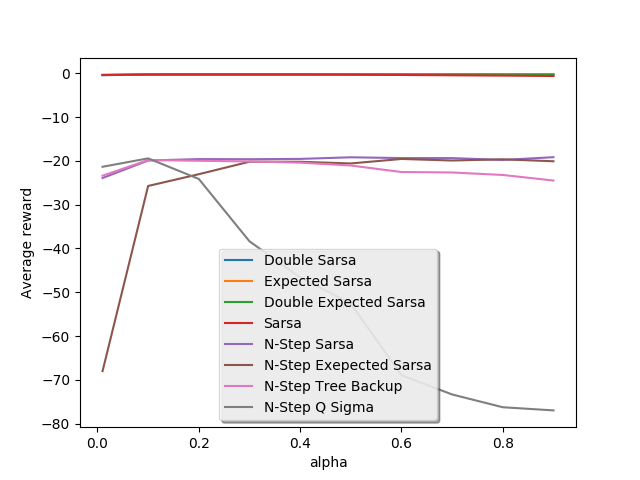
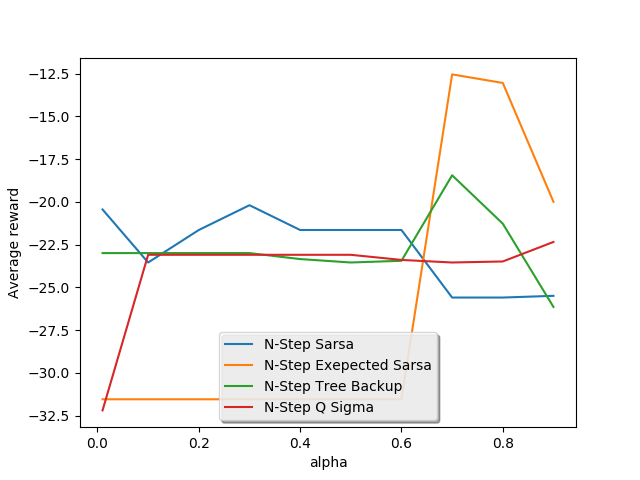
images no on-policy

diff --git a/varying_alpha_with_custom_sigma.py b/varying_alpha_with_custom_sigma.py
@@ -1,0 +1,179 @@
+import numpy as np
+from mdp_matrix import GridWorld, StochasticGridWorld, WindyGridCliffMazeWorld
+from double_sarsa import double_sarsa
+from n_step_sarsa import n_step_sarsa
+from n_step_expected_sarsa import n_step_expected_sarsa
+from n_step_tree_backup import n_step_tree_backup
+from q_sigma_with_varianced_sigma import n_step_q_sigma
+from expected_sarsa import expected_sarsa
+from double_expected_sarsa import double_expected_sarsa
+import matplotlib
+matplotlib.use('Agg')
+import matplotlib.pyplot as plt
+from sarsa import sarsa
+from joblib import Parallel, delayed
+
+start_state = [0, 0]
+
+test_rewards = [[i, j, -1] for i in range(5) for j in range(5)]
+test_rewards[2] = [0, 2, 1]
+test_rewards[23] = [4,3, 1]
+
+gamma=.9
+
+start_state = [0, 0]
+
+gw = StochasticGridWorld(5, test_rewards, terminal_states=[2, 23] )
+# print test_rewards
+
+average_reward_double_sarsa = []
+all_rewards_per_episode_double_sarsa = []
+q_var_double_sarsa = []
+
+average_reward_expected_sarsa = []
+all_rewards_per_episode_expected_sarsa = []
+q_var_expected_sarsa = []
+
+average_reward_double_expected_sarsa = []
+all_rewards_per_episode_double_expected_sarsa = []
+q_var_double_expected_sarsa = []
+
+average_reward_sarsa = []
+all_rewards_per_episode_sarsa = []
+q_var_sarsa = []
+
+
+average_reward_n_step_sarsa = []
+all_rewards_per_episode_n_step_sarsa = []
+q_var_n_step_sarsa = []
+
+
+average_reward_n_step_expected_sarsa = []
+all_rewards_per_episode_n_step_expected_sarsa = []
+q_var_n_step_expected_sarsa = []
+
+
+average_reward_n_step_tree_backup= []
+all_rewards_per_episode_n_step_tree_backup = []
+q_var_n_step_tree_backup = []
+
+average_reward_n_step_q_sigma= []
+all_rewards_per_episode_n_step_q_sigma = []
+q_var_n_step_q_sigma = []
+
+
+epsilon = .1
+
+n=2000
+alphas = [x for x in np.arange(0.0, 1., .1)]
+alphas[0] = .01
+# import pdb; pdb.set_trace()
+
+number_of_runs = 5
+
+for r in range(number_of_runs):
+    n_step_sarsa_results = Parallel(n_jobs=-2, verbose=10)(delayed(n_step_sarsa)(gw, n, alpha, gamma, epsilon, n=4) for alpha in alphas)
+    # Q, average_reward, max_reward, all_rewards, Q_variances = n_step_sarsa(gw, max_episode, epsilon=epsilon, alpha=alpha, n = n_step)
+    for result in n_step_sarsa_results:
+        average_reward_n_step_sarsa.append(result[1])
+        q_var_n_step_sarsa.append(result[4])
+        all_rewards_per_episode_n_step_sarsa.append(result[3])
+    print("Done nstep sarsa")
+
+    n_step_expected_sarsa_results = Parallel(n_jobs=-2, verbose=10)(delayed(n_step_expected_sarsa)(gw, n, alpha, gamma, epsilon, n=4) for alpha in alphas)
+    # Q, average_reward, max_reward, all_rewards, Q_variances = n_step_sarsa(gw, max_episode, epsilon=epsilon, alpha=alpha, n = n_step)
+    for result in n_step_expected_sarsa_results:
+        average_reward_n_step_expected_sarsa.append(result[1])
+        q_var_n_step_expected_sarsa.append(result[4])
+        all_rewards_per_episode_n_step_expected_sarsa.append(result[3])
+    print("Done nstep expected sarsa")
+
+    n_step_tree_backup_results = Parallel(n_jobs=-2, verbose=10)(delayed(n_step_tree_backup)(gw, n, alpha, gamma, epsilon, n=4) for alpha in alphas)
+    # Q, average_reward, max_reward, all_rewards, Q_variances = n_step_tree_backup(gw, max_episode, epsilon=epsilon, alpha=alpha, n = n_step)
+    for result in n_step_tree_backup_results:
+        average_reward_n_step_tree_backup.append(result[1])
+        q_var_n_step_tree_backup.append(result[4])
+        all_rewards_per_episode_n_step_tree_backup.append(result[3])
+    print("Done nstep tree backup")
+
+    n_step_q_sigma_results = Parallel(n_jobs=-2, verbose=10)(delayed(n_step_q_sigma)(gw, n, alpha, gamma, epsilon, n=4) for alpha in alphas)
+    # Q, average_reward, max_reward, all_rewards, Q_variances = n_step_q_sigma(gw, max_episode, epsilon=epsilon, alpha=alpha, n = n_step)
+    for result in n_step_q_sigma_results:
+        average_reward_n_step_q_sigma.append(result[1])
+        q_var_n_step_q_sigma.append(result[4])
+        all_rewards_per_episode_n_step_q_sigma.append(result[3])
+    print("Done nstep q_sigma")
+
+
+q_var_n_step_sarsa = np.mean(np.mean(np.split(np.array(q_var_n_step_sarsa), number_of_runs), axis = 0), axis=1)
+q_var_n_step_expected_sarsa = np.mean(np.mean(np.split(np.array(q_var_n_step_expected_sarsa), number_of_runs), axis = 0), axis=1)
+q_var_n_step_tree_backup= np.mean(np.mean(np.split(np.array(q_var_n_step_tree_backup), number_of_runs), axis = 0), axis=1)
+q_var_n_step_q_sigma= np.mean(np.mean(np.split(np.array(q_var_n_step_q_sigma), number_of_runs), axis = 0), axis=1)
+
+
+plt.plot(alphas, q_var_n_step_sarsa, label="N-Step Sarsa")
+plt.plot(alphas, q_var_n_step_expected_sarsa, label="N-Step Expected Sarsa")
+plt.plot(alphas, q_var_n_step_tree_backup, label="N-Step Tree Backup")
+plt.plot(alphas, q_var_n_step_q_sigma, label="N-Step Q sigma")
+
+plt.ylabel('Average Q Variance')
+plt.xlabel('alpha')
+ax = plt.gca()
+# ax.set_xscale('symlog')
+ax.legend(loc='upper center', shadow=True)
+plt.savefig('q_variance.png')
+plt.close()
+
+# TODO: plot all sarsa, expected_sarsa, double_Sarsa
+# import pdb; pdb.set_trace()
+average_reward_n_step_sarsa = np.mean(np.split(np.array(average_reward_n_step_sarsa), number_of_runs), axis=0)
+average_reward_n_step_expected_sarsa = np.mean(np.split(np.array(average_reward_n_step_expected_sarsa), number_of_runs), axis=0)
+average_reward_n_step_tree_backup = np.mean(np.split(np.array(average_reward_n_step_tree_backup), number_of_runs), axis=0)
+average_reward_n_step_q_sigma = np.mean(np.split(np.array(average_reward_n_step_q_sigma), number_of_runs), axis=0)
+
+plt.plot(alphas, average_reward_n_step_sarsa, label="N-Step Sarsa")
+plt.plot(alphas, average_reward_n_step_expected_sarsa, label="N-Step Exepected Sarsa")
+plt.plot(alphas, average_reward_n_step_tree_backup, label="N-Step Tree Backup")
+plt.plot(alphas, average_reward_n_step_q_sigma, label="N-Step Q Sigma")
+
+plt.ylabel('Average reward')
+plt.xlabel('alpha')
+ax = plt.gca()
+# ax.set_xscale('symlog')
+ax.legend(loc='lower center', shadow=True)
+plt.savefig('average_reward.png')
+plt.close()
+# import pdb; pdb.set_trace()
+
+
+print("Max alpha N-step SARSA: %f" % alphas[np.argmax(average_reward_n_step_sarsa)])
+print("Max alpha N-step Expected SARSA: %f" % alphas[np.argmax(average_reward_n_step_expected_sarsa)])
+print("Max alpha N-step TreeBackup: %f" % alphas[np.argmax(average_reward_n_step_tree_backup)])
+print("Max alpha N-step Q Sigma: %f" % alphas[np.argmax(average_reward_n_step_q_sigma)])
+
+
+all_rewards_per_episode_n_step_sarsa = np.mean(np.split(np.array(all_rewards_per_episode_n_step_sarsa), number_of_runs), axis=0)
+all_rewards_per_episode_n_step_expected_sarsa = np.mean(np.split(np.array(all_rewards_per_episode_n_step_expected_sarsa), number_of_runs), axis=0)
+all_rewards_per_episode_n_step_tree_backup = np.mean(np.split(np.array(all_rewards_per_episode_n_step_tree_backup), number_of_runs), axis=0)
+all_rewards_per_episode_n_step_q_sigma= np.mean(np.split(np.array(all_rewards_per_episode_n_step_q_sigma), number_of_runs), axis=0)
+
+
+variance_n_step_sarsa = np.var(all_rewards_per_episode_n_step_sarsa, axis=1)
+variance_n_step_expected_sarsa = np.var(all_rewards_per_episode_n_step_expected_sarsa, axis=1)
+variance_n_step_tree_backup = np.var(all_rewards_per_episode_n_step_tree_backup, axis=1)
+variance_n_step_q_sigma = np.var(all_rewards_per_episode_n_step_q_sigma, axis=1)
+
+# import pdb; pdb.set_trace()/
+
+plt.plot(alphas, variance_n_step_sarsa, label="N-Step Sarsa")
+plt.plot(alphas, variance_n_step_expected_sarsa, label="N-Step Expected Sarsa")
+plt.plot(alphas, variance_n_step_tree_backup, label="N-Step Tree Backup")
+plt.plot(alphas, variance_n_step_q_sigma, label="N-Step Q sigma")
+
+plt.ylabel('Variance in Reward')
+plt.xlabel('alpha')
+ax = plt.gca()
+# ax.set_xscale('symlog')
+ax.legend(loc='upper center', shadow=True)
+plt.savefig('variance_reward.png')
+plt.close()

diff --git a/q_sigma_with_varianced_sigma.py b/q_sigma_with_varianced_sigma.py
@@ -1,5 +1,7 @@
 import numpy as np
 import sys
+import sklearn
+from sklearn.preprocessing import normalize
 
 def behaviour_policy(Q, s, nA, epsilon=.3):
     """
@@ -32,13 +34,27 @@ def target_policy_probs(Q, s, nA, epsilon=.1):
     A[best_action] += (1.0 - epsilon)
     return A
 
-def select_sigma(Q, s, a, nA):
+def select_sigma(Q, s, a, nA, last_n_variances):
     """
     The idea is that you should be able to choose a sigma based off of a function of
     variables, but here we simply choose a uniform distribution for now.
     Idea is to swap this out for other functions in experiments
     """
-    return np.random.randint(2, size=nA)[a]
+    # Take the max norm of the last N variances
+    # import pdb; pdb.set_trace()
+    last_n_variances = normalize(last_n_variances.reshape(-1, 1), 'max').reshape(-1)
+    # print(np.mean(last_n_variances))
+    # print( np.mean(last_n_variances[-1]) )
+    if np.mean(last_n_variances) == 0:
+        # no data defaults to uniform distribution
+        return np.random.randint(2, size=nA)[a]
+
+    if last_n_variances[-1] > np.mean(last_n_variances):
+        #if the variance is increasing, don't favour sampling
+        # print "test"
+        return 0
+    else:
+        return 1
 
 
 def n_step_q_sigma(mdp, max_episode, alpha = 0.1, gamma = 0.9, epsilon = 0.1, n = 10):
@@ -49,7 +65,7 @@ def n_step_q_sigma(mdp, max_episode, alpha = 0.1, gamma = 0.9, epsilon = 0.1, n 
     Q_variances = []
     max_reward = 0
     total_reward = 0
-
+    last_n_variances = np.zeros(n)
     # TODO: make sigma able to be configured
 
     while n_episode < max_episode:
@@ -58,7 +74,6 @@ def n_step_q_sigma(mdp, max_episode, alpha = 0.1, gamma = 0.9, epsilon = 0.1, n 
             s = mdp.initial_state # Initialize s, starting state
         except AttributeError:
             s = 0
-
         # initializations
         T = sys.maxint
         tau = 0
@@ -76,7 +91,7 @@ def n_step_q_sigma(mdp, max_episode, alpha = 0.1, gamma = 0.9, epsilon = 0.1, n 
         stored_states[0] = s
         stored_Qs[0] = Q[s][stored_actions[0]]
         stored_bp[0] = behaviour_policy_probs(Q, s, mdp.A)[stored_actions[0]]
-        stored_sigmas[0] = select_sigma(Q, s, stored_actions[0], mdp.A)
+        stored_sigmas[0] = select_sigma(Q, s, stored_actions[0], mdp.A, last_n_variances)
         stored_rhos[0] = target_policy_probs(Q, s, mdp.A)[stored_actions[0]] / behaviour_policy_probs(Q, s, mdp.A)[stored_actions[0]]
 
         for i in range(1, n):
@@ -108,7 +123,7 @@ def n_step_q_sigma(mdp, max_episode, alpha = 0.1, gamma = 0.9, epsilon = 0.1, n 
                     stored_actions[(t+1) % n] = at1
 
                     # select and store sigma
-                    stored_sigmas[(t+1)%n] = sigma = select_sigma(Q, st1, at1, mdp.A)
+                    stored_sigmas[(t+1)%n] = sigma = select_sigma(Q, st1, at1, mdp.A, last_n_variances)
 
                     # Store Q(st1|At1)
                     stored_Qs[(t+1) % (n+1)] = Q[st1][at1]
@@ -159,6 +174,8 @@ def n_step_q_sigma(mdp, max_episode, alpha = 0.1, gamma = 0.9, epsilon = 0.1, n 
                 # rho = np.prod([ (1- stored_sigmas[k]) for k in range(tau+1, min(tau+n, T-1)+1)])
 
                 Q[s_tau][a_tau] += alpha * rho * (G - Q[s_tau][a_tau])
+                # import pdb; pdb.set_trace()
+                last_n_variances[t%n] = np.var(Q)
                 # if pi is being learned, ensure that pi(.|S_tau) is \epsilon-greedy wrt Q
 
         if reward_for_episode > max_reward:

diff --git a/test_n_step.py b/test_n_step.py
@@ -9,7 +9,7 @@ from double_sarsa import double_sarsa
 from double_expected_sarsa import double_expected_sarsa
 from n_step_sarsa import n_step_sarsa
 from n_step_tree_backup import n_step_tree_backup
-from q_sigma import n_step_q_sigma
+from q_sigma_with_varianced_sigma import n_step_q_sigma
 
 start_state = [0, 0]
 
